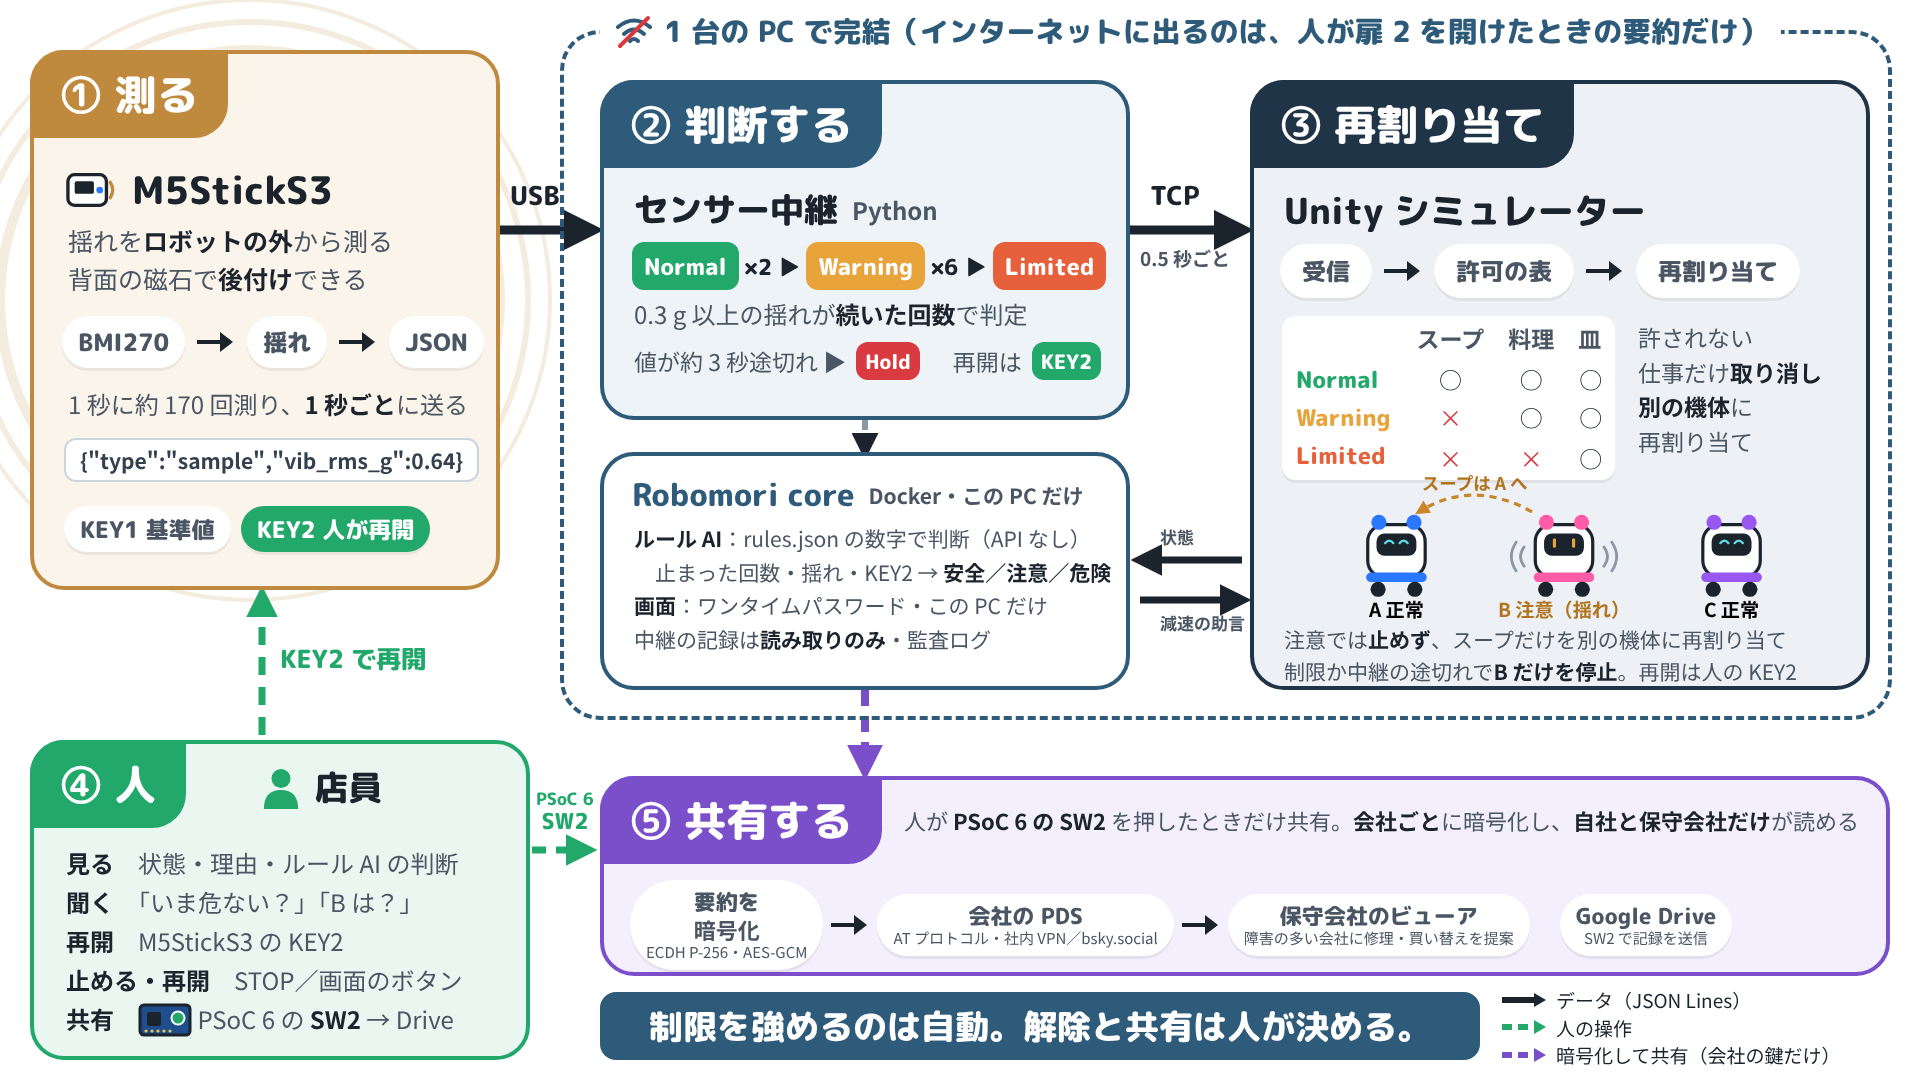
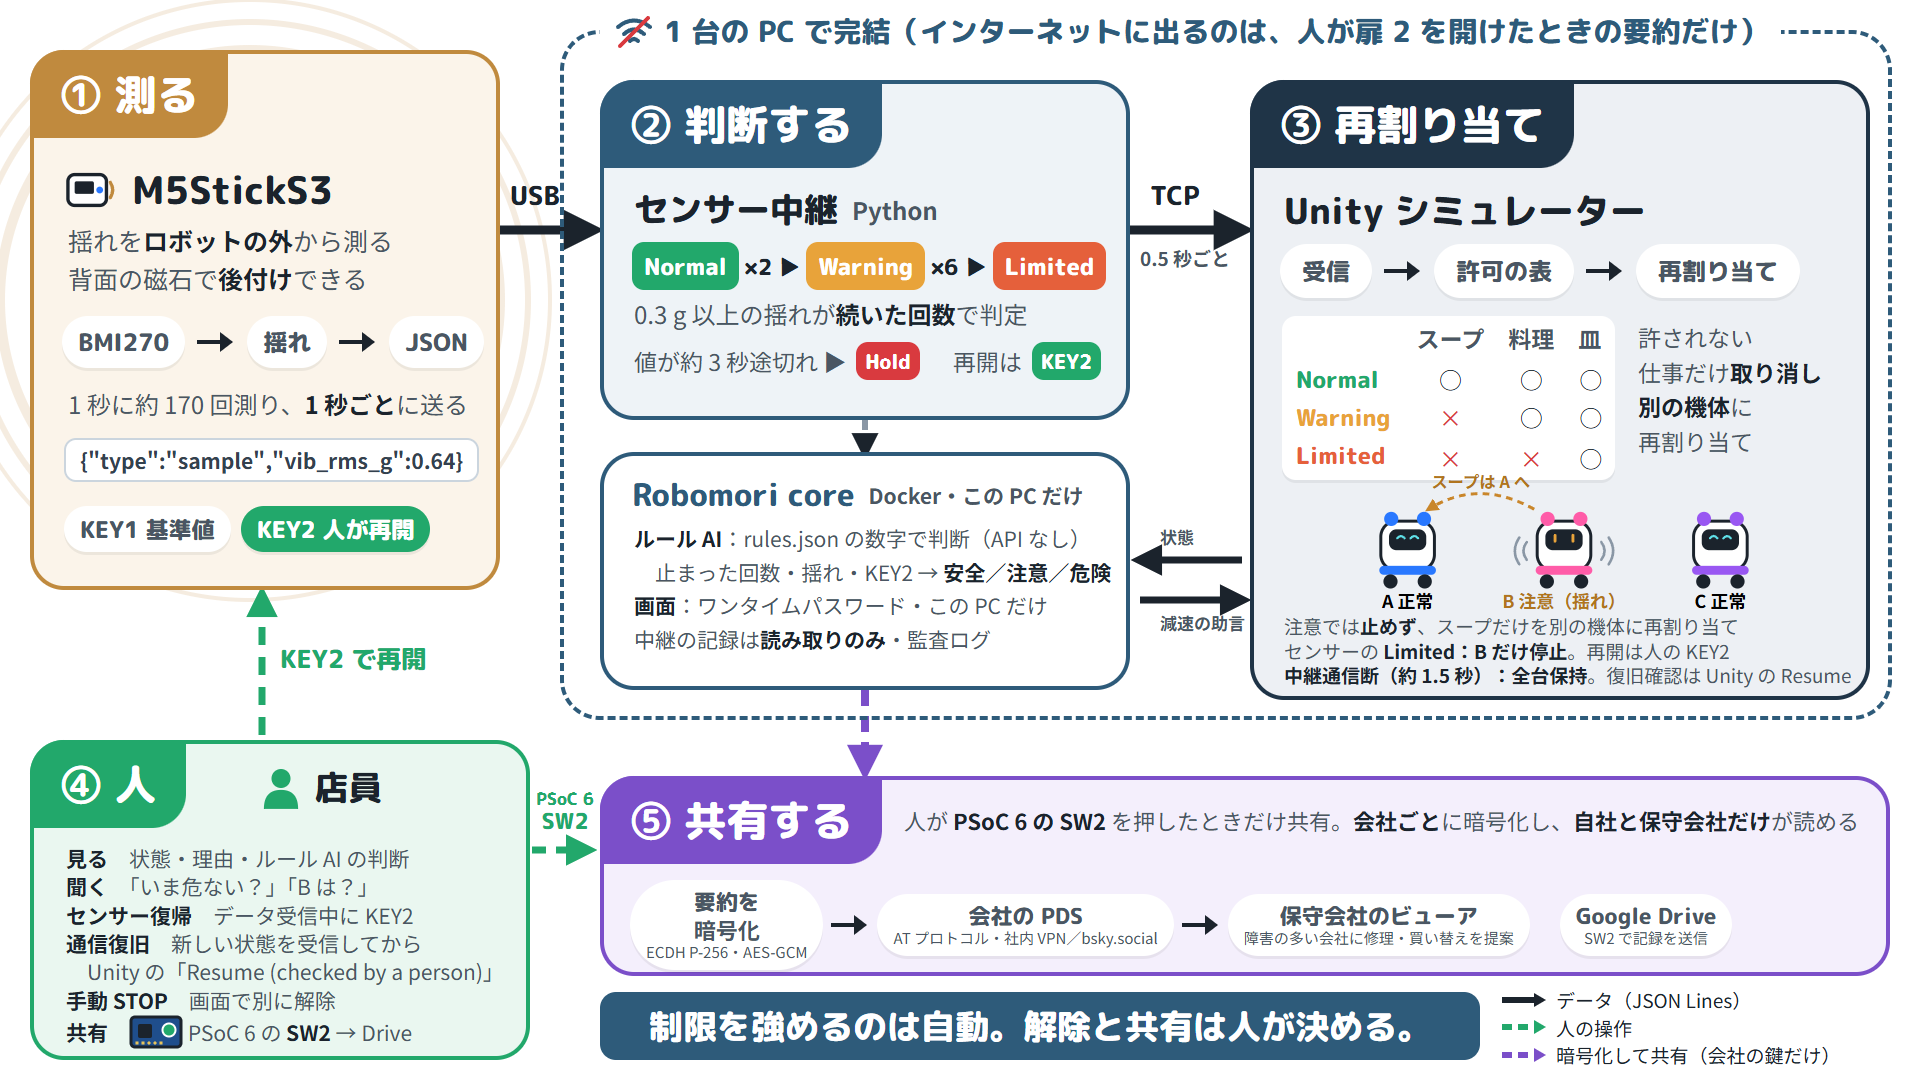
docs: distinguish sensor stops and relay outage recovery

diff --git a/docs/images/system-model.html b/docs/images/system-model.html
@@ -105,7 +105,7 @@ body{width:1920px;height:1080px;background:#fff;font-family:'Noto Sans JP',sans-
 <div class="lbl" style="left:1160px;top:610px;font-size:17px;font-family:'Noto Sans JP';font-weight:700;color:var(--sub)">減速の助言</div>
 
 <!-- ③ reassign -->
-<div class="box" style="left:1250px;top:80px;width:620px;height:610px;border-color:var(--dark);background:var(--dark-bg)">
+<div class="box" style="left:1250px;top:80px;width:620px;height:620px;border-color:var(--dark);background:var(--dark-bg)">
   <div class="hdr" style="background:var(--dark)">③ 再割り当て</div>
   <div class="title" style="left:30px;top:100px;font-size:36px">Unity シミュレーター</div>
   <div class="row" style="left:26px;top:160px">
@@ -118,7 +118,7 @@ body{width:1920px;height:1080px;background:#fff;font-family:'Noto Sans JP',sans-
     <tr><td style="padding:2px 14px 8px;font-family:'M PLUS Rounded 1c';color:var(--lim)">Limited</td><td align="center" style="color:var(--hold)">×</td><td align="center" style="color:var(--hold)">×</td><td align="center">○</td></tr>
   </table>
   <div class="t" style="left:384px;top:236px;font-size:23px;line-height:1.5">許されない<br>仕事だけ<b>取り消し</b><br><b>別の機体</b>に<br>再割り当て</div>
-  <svg class="abs" style="left:40px;top:388px" width="540" height="150" viewBox="0 0 580 188">
+  <svg class="abs" style="left:40px;top:388px" width="540" height="140" viewBox="0 0 580 188">
     <defs>
       <g id="bot"><rect x="-36" y="-44" width="72" height="66" rx="21" fill="#fff" stroke="#1B232C" stroke-width="4"/><rect x="-25" y="-33" width="50" height="28" rx="10" fill="#1B232C"/><rect x="-38" y="16" width="76" height="12" rx="6" fill="currentColor"/><circle cx="-23" cy="37" r="9.5" fill="#1B232C"/><circle cx="23" cy="37" r="9.5" fill="#1B232C"/><circle cx="-22" cy="-47" r="9.5" fill="currentColor"/><circle cx="22" cy="-47" r="9.5" fill="currentColor"/></g>
       <path id="smile" d="M-14 -21 q5 -6 10 0 M4 -21 q5 -6 10 0" stroke="#5FE0E8" stroke-width="3" fill="none" stroke-linecap="round"/>
@@ -133,7 +133,7 @@ body{width:1920px;height:1080px;background:#fff;font-family:'Noto Sans JP',sans-
     <text x="290" y="182" font-family="M PLUS Rounded 1c" font-weight="800" font-size="24" text-anchor="middle" fill="#B0741E">B 注意（揺れ）</text>
     <text x="500" y="182" font-family="M PLUS Rounded 1c" font-weight="800" font-size="24" text-anchor="middle">C 正常</text>
   </svg>
-  <div class="t" style="left:30px;top:540px;font-size:21px;line-height:1.5">注意では<b>止めず</b>、スープだけを別の機体に再割り当て<br>制限か中継の途切れで<b>B だけを停止</b>。再開は人の KEY2</div>
+  <div class="t" style="left:30px;top:530px;font-size:19px;line-height:1.3">注意では<b>止めず</b>、スープだけを別の機体に再割り当て<br>センサーの <b>Limited：B だけ停止</b>。再開は人の KEY2<br><b>中継通信断（約 1.5 秒）：全台保持</b>。復旧確認は Unity の Resume</div>
 </div>
 
 <!-- ④ human -->
@@ -142,7 +142,7 @@ body{width:1920px;height:1080px;background:#fff;font-family:'Noto Sans JP',sans-
   <div class="title" style="left:228px;top:18px;font-size:34px">
     <svg width="38" height="42" viewBox="0 0 40 44"><circle cx="20" cy="12" r="10" fill="#22A86B"/><path d="M2 44 q0 -20 18 -20 q18 0 18 20z" fill="#22A86B"/></svg>店員
   </div>
-  <div class="t" style="left:32px;top:100px;font-size:24px;line-height:1.62"><b>見る</b>　状態・理由・ルール AI の判断<br><b>聞く</b>　「いま危ない？」「B は？」<br><b>再開</b>　M5StickS3 の KEY2<br><b>止める・再開</b>　STOP／画面のボタン<br><b>共有</b>　<svg width="54" height="36" viewBox="0 0 54 36" style="vertical-align:-9px"><rect x="2" y="3" width="50" height="30" rx="4" fill="#1F4E8C" stroke="#1B232C" stroke-width="3"/><rect x="9" y="10" width="14" height="14" rx="2" fill="#1B232C"/><g fill="#E8C35A"><circle cx="8" cy="29" r="1.6"/><circle cx="14" cy="29" r="1.6"/><circle cx="20" cy="29" r="1.6"/><circle cx="26" cy="29" r="1.6"/><circle cx="32" cy="29" r="1.6"/></g><circle cx="40" cy="16" r="6.5" fill="#22A86B" stroke="#fff" stroke-width="2"/></svg> PSoC 6 の <b>SW2</b> → Drive</div>
+  <div class="t" style="left:32px;top:100px;font-size:21px;line-height:1.35"><b>見る</b>　状態・理由・ルール AI の判断<br><b>聞く</b>　「いま危ない？」「B は？」<br><b>センサー復帰</b>　データ受信中に KEY2<br><b>通信復旧</b>　新しい状態を受信してから<br>　Unity の「Resume (checked by a person)」<br><b>手動 STOP</b>　画面で別に解除<br><b>共有</b>　<svg width="54" height="36" viewBox="0 0 54 36" style="vertical-align:-9px"><rect x="2" y="3" width="50" height="30" rx="4" fill="#1F4E8C" stroke="#1B232C" stroke-width="3"/><rect x="9" y="10" width="14" height="14" rx="2" fill="#1B232C"/><g fill="#E8C35A"><circle cx="8" cy="29" r="1.6"/><circle cx="14" cy="29" r="1.6"/><circle cx="20" cy="29" r="1.6"/><circle cx="26" cy="29" r="1.6"/><circle cx="32" cy="29" r="1.6"/></g><circle cx="40" cy="16" r="6.5" fill="#22A86B" stroke="#fff" stroke-width="2"/></svg> PSoC 6 の <b>SW2</b> → Drive</div>
 </div>
 <div class="lbl" style="left:280px;top:640px;font-size:25px;color:#22A86B">KEY2 で再開</div>
 <div class="lbl" style="left:536px;top:790px;font-size:17px;line-height:1.1;color:#22A86B;text-align:center">PSoC 6<br><span style="font-size:22px">SW2</span></div>
